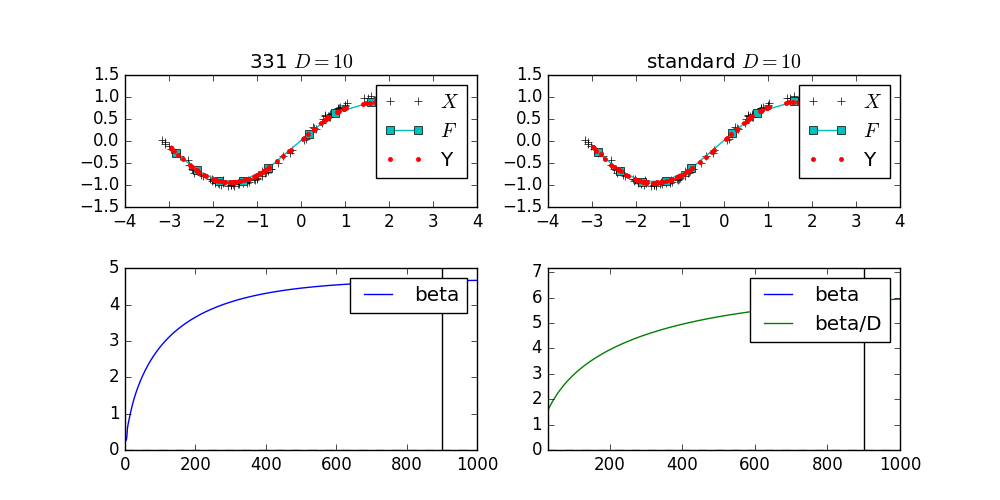
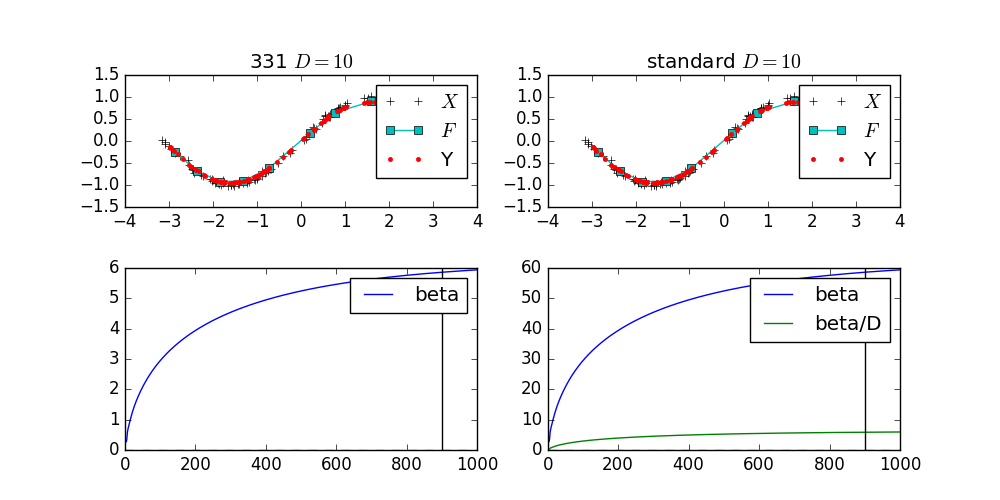
standardとの事前分布の対応を取るため331のalphaをDで割る．

diff --git a/experiments/0726Mtg/standard_epsilon/changing_D.py b/experiments/0726Mtg/standard_epsilon/changing_D.py
@@ -21,7 +21,7 @@ def _main():
         nb_epoch = 1000
 
         lamb = 30**2
-        alpha = 1.0
+        alpha = 1.0 / input_dim
         kse_331.fit(nb_epoch = nb_epoch, alpha = alpha, gamma = lamb)
         kse_standard.fit(nb_epoch = nb_epoch, lamb = lamb)
 
